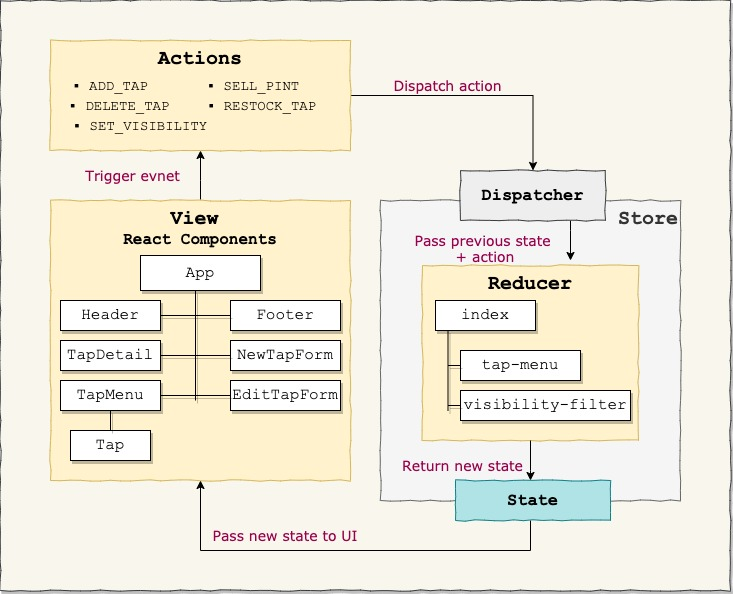
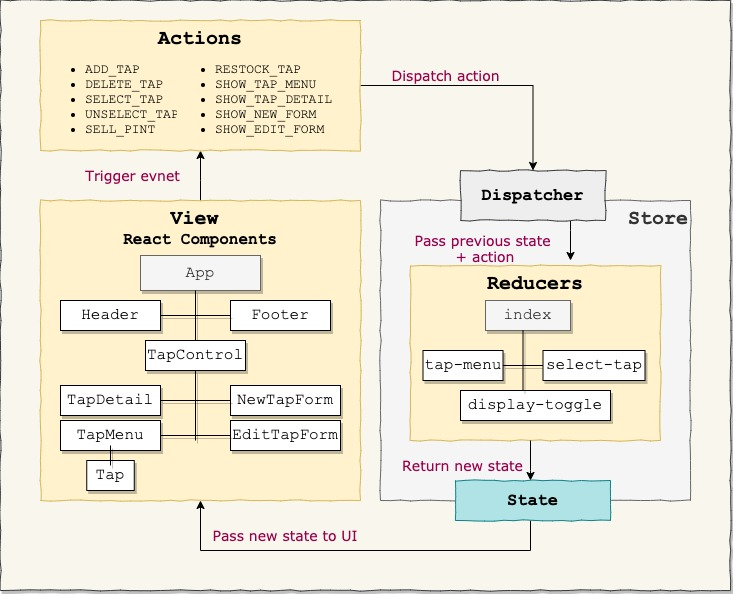
update component diagram in README and clean up code

diff --git a/src/components/Tap/TabDetail.js b/src/components/Tap/TabDetail.js
@@ -1,5 +1,5 @@
 import React from "react";
-import PropTypes from "prop-types"
+import PropTypes from "prop-types";
 
 function TapDetail(props){
 
@@ -14,11 +14,16 @@ function TapDetail(props){
           <li>price: <strong>{props.tap.price}</strong> $</li>
           <li>ABV: <strong>{props.tap.abv}</strong> % ABV</li>
           <li>Left Pints: <strong>{props.tap.pints}</strong></li>
-          <li>Current Status: <strong><span className="left-pints">{props.tap.message}</span></strong></li>
+          <li>Current Status:
+            {props.tap.message === "Enough" && <span className="left-pints-enough">{props.tap.message}</span>}
+            {props.tap.message === "Almost Empty" && <span className="left-pints-almost">{props.tap.message}</span>}
+            {props.tap.message === "Out of Stock!" && <span className="left-pints-empty">{props.tap.message}</span>}
+          </li>
         </ul>
         <div className="card-footer">
           <div className="button-center">
             <div className="btn-group" role="group" aria-label="Basic example">
+              <button onClick={() => props.onClickToHome()} className="btn btn-outline-info">Menu</button>
               <button onClick={() => props.onClickRestock(props.tap.id)} className="btn btn-outline-info">Restock</button>
               <button onClick={() => props.onClickEdit(props.tap.id)} className="btn btn-outline-info">Edit</button>
               <button onClick={() => props.onClickDelete(props.tap.id)} className="btn btn-outline-info">Delete</button>
@@ -32,6 +37,7 @@ function TapDetail(props){
 
 TapDetail.propTypes= {
   tap: PropTypes.object,
+  onClickToHome: PropTypes.func,
   onClickRestock: PropTypes.func,
   onClickEdit: PropTypes.func,
   onClickDelete: PropTypes.func

diff --git a/src/InitialState.js b/src/InitialState.js
@@ -1,6 +1,13 @@
+import { v4 } from 'uuid';
+
+const id1 = v4();
+const id2 = v4();
+const id3 = v4();
+const id4 = v4();
+
 const initialState = {
   masterTapMenu: {
-    [1]: { 
+    [id1]: { 
       img: "https://encrypted-tbn0.gstatic.com/images?q=tbn%3AANd9GcTr4-0GqixCFrqtZ8bEgiwkRdGYXcyNlD0TpX3PMwzJx4b9r8SS&usqp=CAU",
       name: "MIRROR POND PALE ALE",
       brand: "DESCHUTES",
@@ -8,9 +15,9 @@ const initialState = {
       abv: "12",
       pints: 3,
       message:"Almost Empty",
-      id: 1
+      id: id1
     },
-    [2]: {
+    [id2]: {
       img: "https://pbs.twimg.com/profile_images/1118565165480337408/hTb40HYf.png",
       name: "CZECH-STYLE PILSNER",
       brand: "BUOY",
@@ -18,9 +25,9 @@ const initialState = {
       abv: "9.8",
       pints: 124,
       message:"Enough",
-      id: 2
+      id: id2
     },
-    [3]: {
+    [id3]: {
       img: "https://encrypted-tbn0.gstatic.com/images?q=tbn%3AANd9GcRAk98i_WUT93Ab5sOy0uCIjIkA4rQUYVRM_P_nyifr3P34a5la&usqp=CAU",
       name: "Barrel Aged IPA",
       brand: "GIGANTIC",
@@ -28,9 +35,9 @@ const initialState = {
       abv: "11.4",
       pints: 124,
       message:"Enough",
-      id: 3
+      id: id3
     },
-    [4]: {
+    [id4]: {
       img: "https://encrypted-tbn0.gstatic.com/images?q=tbn%3AANd9GcT9z4LT7645EIuXtmxydA-Axpv0eh9m8CLr0HVOAi6_AuRh1zdq&usqp=CAU",
       name: "Mosaic Hopped CREAM ALE",
       brand: "BRIDGEPORT",
@@ -38,7 +45,7 @@ const initialState = {
       abv: "10",
       pints: 12,
       message:"Enough",
-      id: 4
+      id: id4
     }
   }
 }

diff --git a/public/index.html b/public/index.html
@@ -18,35 +18,9 @@
     />
     <link rel="stylesheet"
       href="https://fonts.googleapis.com/css?family=Roboto+Mono|Girassol|Tangerine|Inconsolata">
-    <link rel="apple-touch-icon" href="%PUBLIC_URL%/logo192.png" />
-    <!--
-      manifest.json provides metadata used when your web app is installed on a
-      user's mobile device or desktop. See https://developers.google.com/web/fundamentals/web-app-manifest/
-    -->
-    <link rel="manifest" href="%PUBLIC_URL%/manifest.json" />
-    <!--
-      Notice the use of %PUBLIC_URL% in the tags above.
-      It will be replaced with the URL of the `public` folder during the build.
-      Only files inside the `public` folder can be referenced from the HTML.
-
-      Unlike "/favicon.ico" or "favicon.ico", "%PUBLIC_URL%/favicon.ico" will
-      work correctly both with client-side routing and a non-root public URL.
-      Learn how to configure a non-root public URL by running `npm run build`.
-    -->
     <title>Tap Room</title>
   </head>
   <body>
-    <noscript>You need to enable JavaScript to run this app.</noscript>
     <div id="root"></div>
-    <!--
-      This HTML file is a template.
-      If you open it directly in the browser, you will see an empty page.
-
-      You can add webfonts, meta tags, or analytics to this file.
-      The build step will place the bundled scripts into the <body> tag.
-
-      To begin the development, run `npm start` or `yarn start`.
-      To create a production bundle, use `npm run build` or `yarn build`.
-    -->
   </body>
 </html>

diff --git a/src/components/Tap/TapControl.js b/src/components/Tap/TapControl.js
@@ -16,6 +16,14 @@ function TapControl(props) {
     dispatch(action);
   }
 
+  const handleToHome = () => {
+    const { dispatch } = props;
+    const action = a.showTapMenu();
+    dispatch(action);
+    const action2 = a.unselectTap();
+    dispatch(action2);
+  }
+
   const handleDisplayAddNewForm = () => {
     const { dispatch } = props;
     const action = a.showNewTapForm();
@@ -60,7 +68,7 @@ function TapControl(props) {
     }
     else if (props.selectedTap.selectedTapId !== null) {
       return (
-        <TapDetail tap = { props.masterTapMenu[props.selectedTap.selectedTapId] } onClickRestock = { handleRestockTap } onClickEdit = { handleDisplayEditForm } onClickDelete = { handleDeleteTap } />        
+        <TapDetail tap = { props.masterTapMenu[props.selectedTap.selectedTapId] } onClickToHome = { handleToHome } onClickRestock = { handleRestockTap } onClickEdit = { handleDisplayEditForm } onClickDelete = { handleDeleteTap } />        
       );
     }
     else if (props.displayToggle.showNewTapForm) {
@@ -76,9 +84,9 @@ function TapControl(props) {
 
   return (
     <>
-    { setVisibility() };
+    { setVisibility() }
     </>
-  )
+  );
 }
 
 TapControl.propTypes = {

diff --git a/src/index.js b/src/index.js
@@ -10,12 +10,7 @@ const store = createStore(
   rootReducer,
   initailState,
   window.__REDUX_DEVTOOLS_EXTENSION__ && window.__REDUX_DEVTOOLS_EXTENSION__()
-  );
-
-// just for testing! Do not include this "production" code!
-store.subscribe(() =>
-  console.log(store.getState())
-);  
+);
 
 ReactDOM.render(
   <Provider store={store}>

diff --git a/src/components/Tap/ReusableForm.js b/src/components/Tap/ReusableForm.js
@@ -3,7 +3,8 @@ import PropTypes from "prop-types";
 
 function ReusableForm(props) {
   return (
-    <><div className="form-card">
+    <>
+      <div className="form-card">
         <form onSubmit={props.formSubmissionHandler}>
           <div className="form-group">
             <label htmlFor="brand">Brand: </label>

diff --git a/src/components/Tap/TapMenu.js b/src/components/Tap/TapMenu.js
@@ -6,7 +6,6 @@ function TapMenu(props) {
   return (
     <>
       <div className="tapMenu">
-      <button onClick={() => props.onClickAddNewTap()} className="btn btn-outline-info">Add New Tap</button>
         <div className="row">
           {Object.values(props.tapMenu).map((tap) =>
             <Tap

diff --git a/src/components/App.js b/src/components/App.js
@@ -28,7 +28,7 @@ function App(props){
       <TapControl />
       <Footer onClickToHome={ handleToHome } />
     </React.Fragment>
-  );
+  )
 }
 
 const mapStateToProps = (state) => {

diff --git a/README.md b/README.md
@@ -35,11 +35,6 @@ A React application where a tap room can track their kegs. This website has full
 ### :small_orange_diamond: Component Diagram : Round 2
 <img src="src/img/tap-room-diagram-2.jpg" alt="Application Component Tree" width= "640px" />   
 
-### Designing Components
-```
-
-```
-
 ## 2. Development
 ### :small_orange_diamond: Technologies Used:
 + [ReactJs](https://reactjs.org/) 
@@ -51,8 +46,8 @@ A React application where a tap room can track their kegs. This website has full
 
 ### :small_orange_diamond: Run this project to development server
 ```bash
-  $ git clone https://github.com/jieunkang-101/TapRoom
-  $ cd TapRoom
+  $ git clone https://github.com/jieunkang-101/TapRoom-Redux
+  $ cd TapRoom-Redux
   $ npm install  
   $ npm start
 ```
